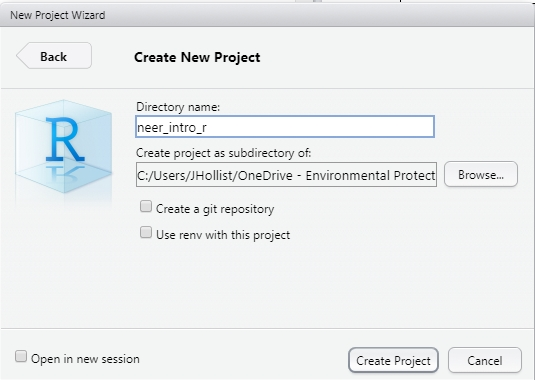
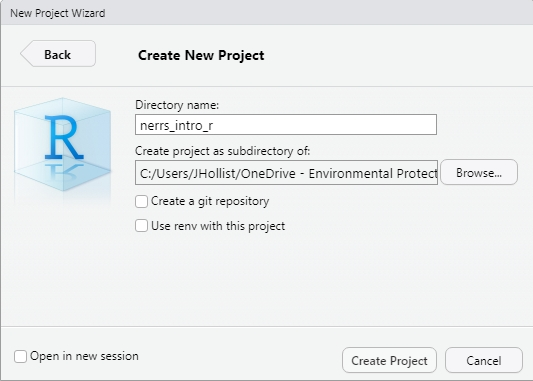
new render

diff --git a/lessons/punchline.md b/lessons/punchline.md
@@ -19,7 +19,7 @@ Then select "New Project"
 
 ![rstudio_proj1](figures/rstudio_project_new2.jpg)
 
-The select "Create Project."  Name this project "neer_intro_r". At this point you should now have a new, empty project.  We need to download the R Script and some data that we will be using for our workshop.  Right click on each of the the links below and select "Save Link As".  In the window that opens up, browse to the location of the project and save these files to the project folder.  Chrome seems to want to call the data file, a ".txt" file.  It shouldn't do that, but it does.  Make sure that you change the ".txt" to ".csv" when you save the file. 
+The select "Create Project."  Name this project "nerrs_intro_r". At this point you should now have a new, empty project.  We need to download the R Script and some data that we will be using for our workshop.  Right click on each of the the links below and select "Save Link As".  In the window that opens up, browse to the location of the project and save these files to the project folder.  Chrome seems to want to call the data file, a ".txt" file.  It shouldn't do that, but it does.  Make sure that you change the ".txt" to ".csv" when you save the file. 
 
 - [NE NERRS R Analysis](https://raw.githubusercontent.com/jhollist/nerrs_r/master/lessons/nerrs_analysis.R)
 - [2020 Summer NE NERRS Water Quality Data](https://github.com/jhollist/nerrs_r/raw/master/data/ne_nerrs_wq_2020.csv)
